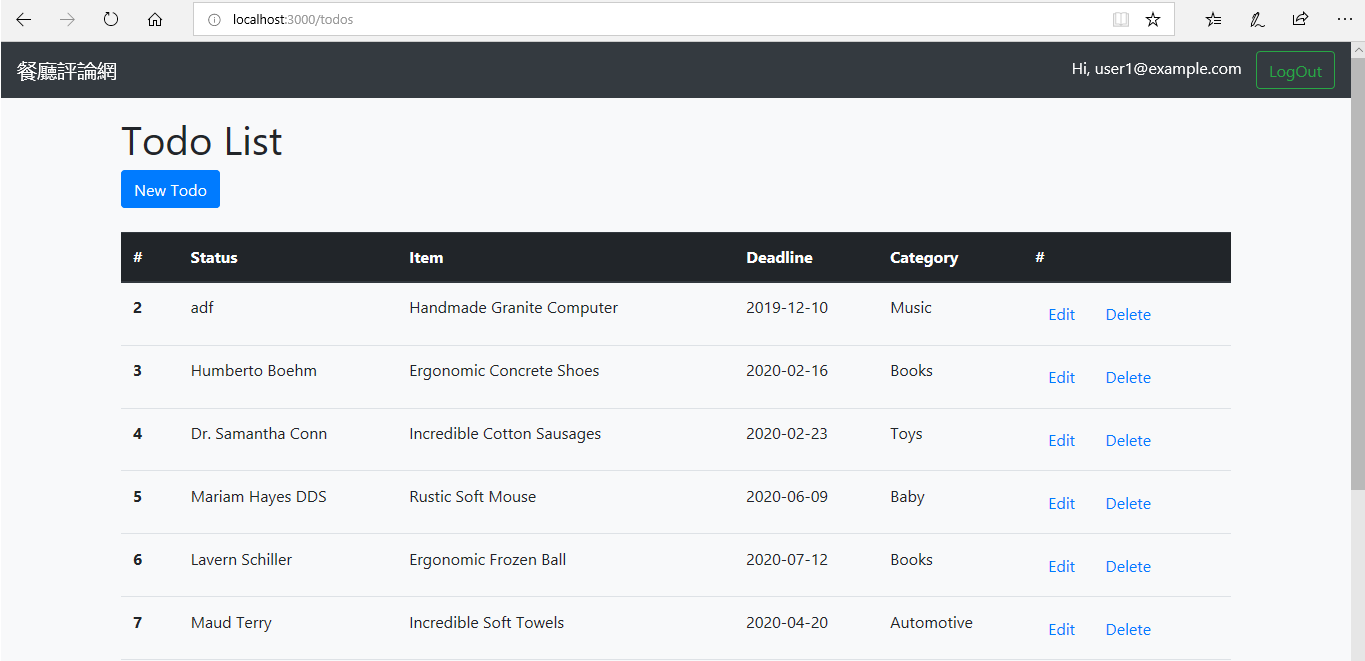
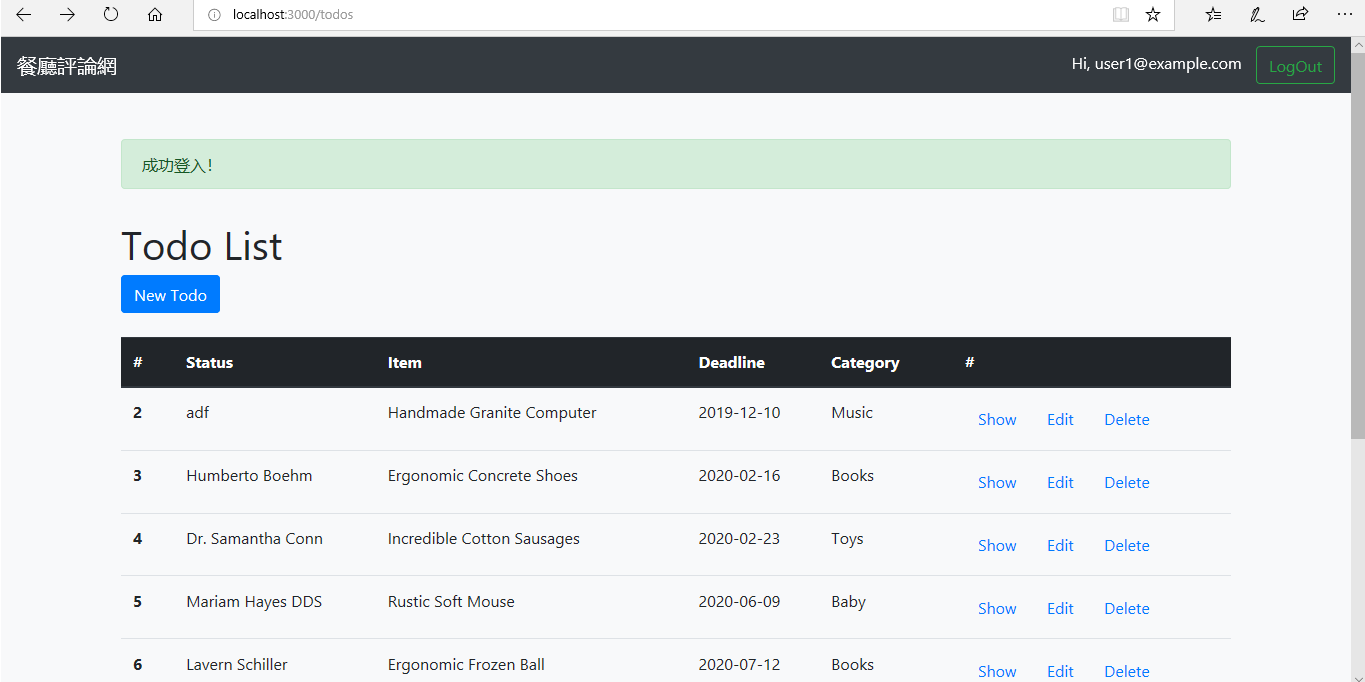
show

diff --git a/routes/index.js b/routes/index.js
@@ -24,6 +24,7 @@ module.exports = (app, passport) => {
   app.get('/todos/create', authenticated, todoController.createTodo)
   app.post('/todos', authenticated, todoController.postTodo)
   app.get('/todos/:id/edit', authenticated, todoController.editTodo)
+  app.get('/todos/:id', authenticated, todoController.getTodo)
   app.put('/todos/:id', authenticated, todoController.putTodo)
   app.delete('/todos/:id', authenticated, todoController.deleteTodo)
 

diff --git a/controllers/todoController.js b/controllers/todoController.js
@@ -71,6 +71,13 @@ const todoController = {
       })
   },
 
+  getTodo: (req, res) => {
+    return List.findByPk(req.params.id).then(todo => {
+      return res.render('todo', {
+        todo: todo
+      })
+    })
+  }
 
 
 }

diff --git a/README.md b/README.md
@@ -18,6 +18,8 @@
 
 ![image](https://github.com/pcreem/todo/blob/master/img/edit.png)
 
+![image](https://github.com/pcreem/todo/blob/master/img/show.png)
+
 
 ## 環境需求
 
